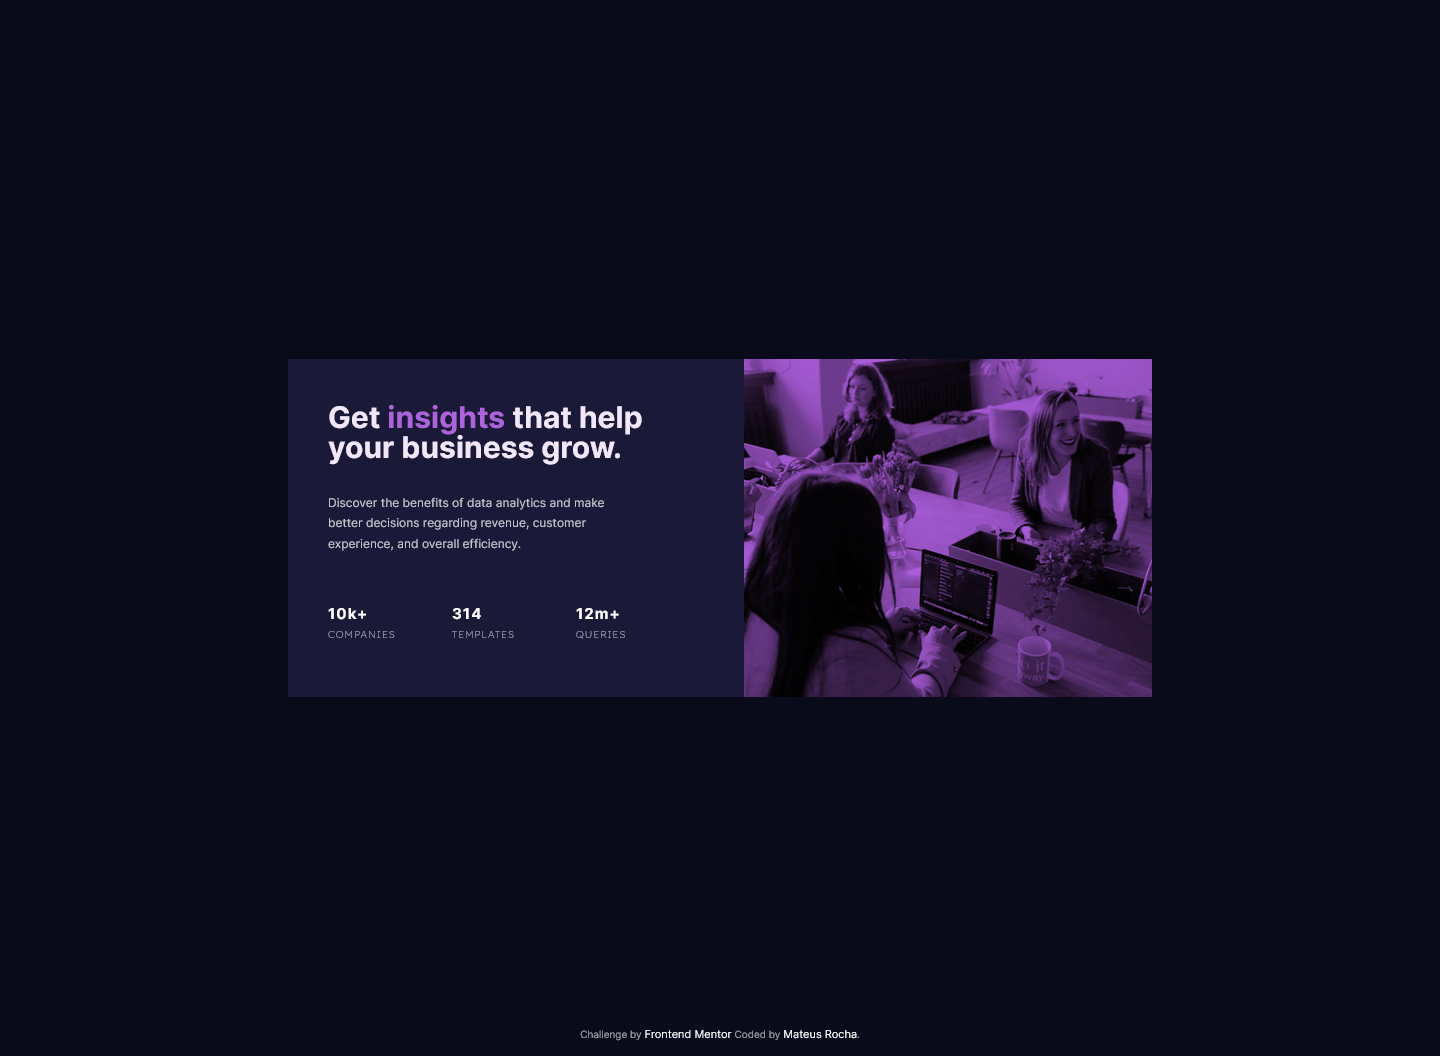
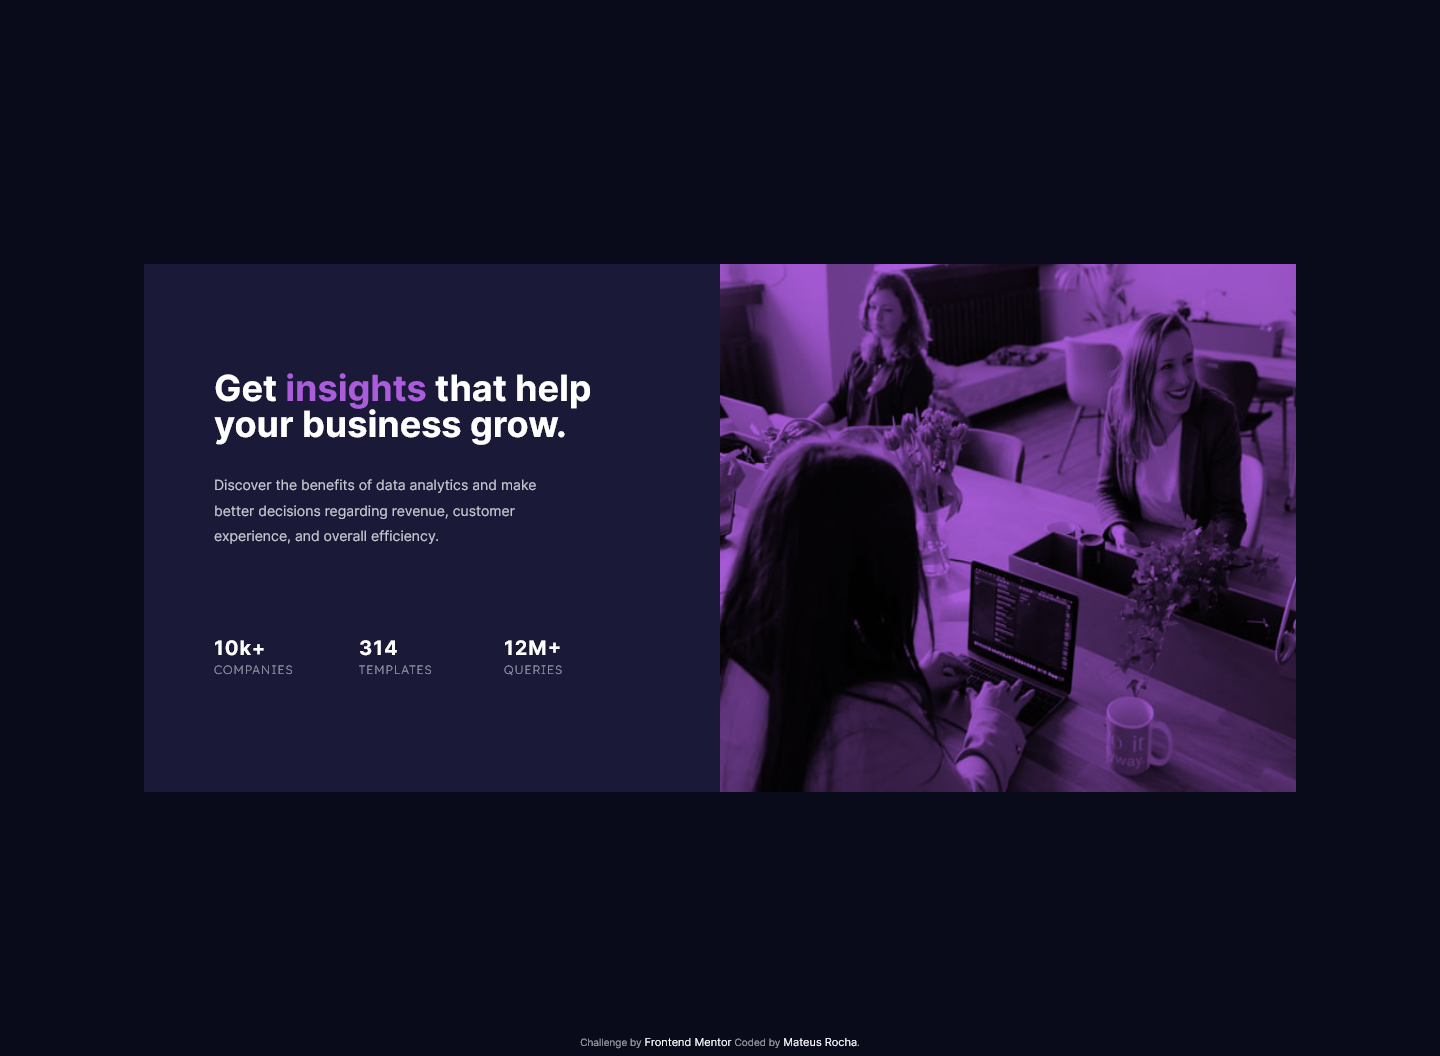
CSS Ajustments

diff --git a/CSS/style.css b/CSS/style.css
@@ -42,25 +42,28 @@ html {
 
 .box {
     background-color: hsl(244, 38%, 16%);
-    width: 60%;
+    width: 80%;
+    height: 50%;
     display: flex;
     flex-direction: row;
 }
 
 .content {
-    width: 40%;
+    width: 50%;
+    height: 60%;
     display: flex;
     flex-direction: column;
     align-self: center;
-    padding: 30px 90px 40px 40px;
+    padding: 0 70px;
+    box-sizing: border-box;
 }
 
 .title h1 {
     color: hsl(277, 64%, 61%);
     font-weight: 700;
-    font-size: 1.875rem;
-    margin-bottom: 30px;
+    font-size: 2.25rem;
     animation: changeColor1 5s normal 0.2s linear forwards;
+    margin-bottom: 30px;
 }
 
 .title strong {
@@ -70,11 +73,10 @@ html {
 
 .paragraph p {
     color: hsla(0, 0%, 100%, 0.75);
-    width: 90%;
-    font-size: 0.75rem;
-    margin-bottom: 50px;
-    line-height: 1.3rem;
-
+    font-size: 0.875rem;
+    width: 80%;
+    line-height: 1.6rem;
+    margin-bottom: 90px;
 }
 
 picture {
@@ -93,17 +95,15 @@ picture:hover {
 }
 
 ul {
-    width: 80%;
+    width: 70%;
     display: flex;
     flex-direction: row;
-    flex-wrap: wrap;
     justify-content: space-between;
-    flex-wrap: wrap;
 }
 
 li {
     width: 5%;
-    font-size: 0.9375rem;
+    font-size: 1.25rem;
     font-weight: 700;
     letter-spacing: 1px;
     line-height: 1.2rem;
@@ -118,7 +118,7 @@ li strong {
     font-family: 'Lexend Deca', sans-serif;
     letter-spacing: 1px;
     color: hsla(0, 0%, 100%, 0.6);
-    font-size: 0.625rem;
+    font-size: 0.75rem;
     font-weight: 200;
 }
 
@@ -127,7 +127,6 @@ footer {
     position: fixed;
     bottom: 0;
     width: 100%;
-    margin-bottom: 8px;
     height: 20px;
     text-align: center;
     color: hsla(0, 0%, 100%, 0.6);
@@ -144,33 +143,7 @@ footer a:hover {
     color: hsl(277, 64%, 61%);
 }
 
-@media (max-width: 1250px) {
-    .content {
-        padding: 20px 70px 20px 20px;
-    }
-
-    .title h1 {
-        font-size: 1.25rem;
-        margin-bottom: 20px;
-    }
-
-    .paragraph p {
-        font-size: 0.625rem;
-        margin-bottom: 40px;
-    }
-
-    li {
-        font-size: 0.8125rem;
-        line-height: 0.8rem;
-    }
-
-    li strong {
-        font-size: 0.4375rem;
-    }
-
-}
-
-@media (max-width: 820px) {
+@media (max-width: 810px) {
     .box {
         width: 90%;
         flex-wrap: wrap-reverse;
@@ -191,7 +164,6 @@ footer a:hover {
     .title h1 {
         width: 100%;
         margin: 0;
-        font-size: 1rem;
         line-height: 1.4rem;
     }
 
@@ -216,8 +188,6 @@ footer a:hover {
     li strong {
         font-size: 0.5rem;
     }
-
-
 }
 
 @media (max-width: 430px) {
@@ -270,21 +240,30 @@ footer a:hover {
 @media (max-width: 375px) {
     .box {
         width: 90%;
+        height: 80%;
         justify-content: center;
     }
 
+    picture {
+        height: 30%;
+        width: 100%;
+    }
+
+
     .content {
-        width: 80%;
+        height: 70%;
+        width: 100%;
         padding-bottom: 20px;
+        box-sizing: border-box;
     }
 
     .title h1 {
-        font-size: 29px;
+        font-size: 1.875rem;
         line-height: 1.9rem;
     }
 
     .paragraph p {
-        font-size: 14px;
+        font-size: 1.125rem;
         line-height: 1.5rem;
         text-align: center;
     }
@@ -297,14 +276,13 @@ footer a:hover {
     }
 
     li {
-        width: 50%;
-        font-size: 1.5625rem;
+        width: 40%;
+        font-size: 26px;
         line-height: 1.5rem;
         padding: 15px;
-
     }
 
     li strong {
-        font-size: 0.875rem;
+        font-size: 0.75rem;
     }
 }

diff --git a/index.html b/index.html
@@ -31,7 +31,7 @@
             <ul>
               <li>10k+ <strong>companies</strong></li>
               <li>314 <strong>templates</strong></li>
-              <li>12m+ <strong>queries</strong></li>
+              <li>12M+ <strong>queries</strong></li>
             </ul>
           </div>
         </div>
